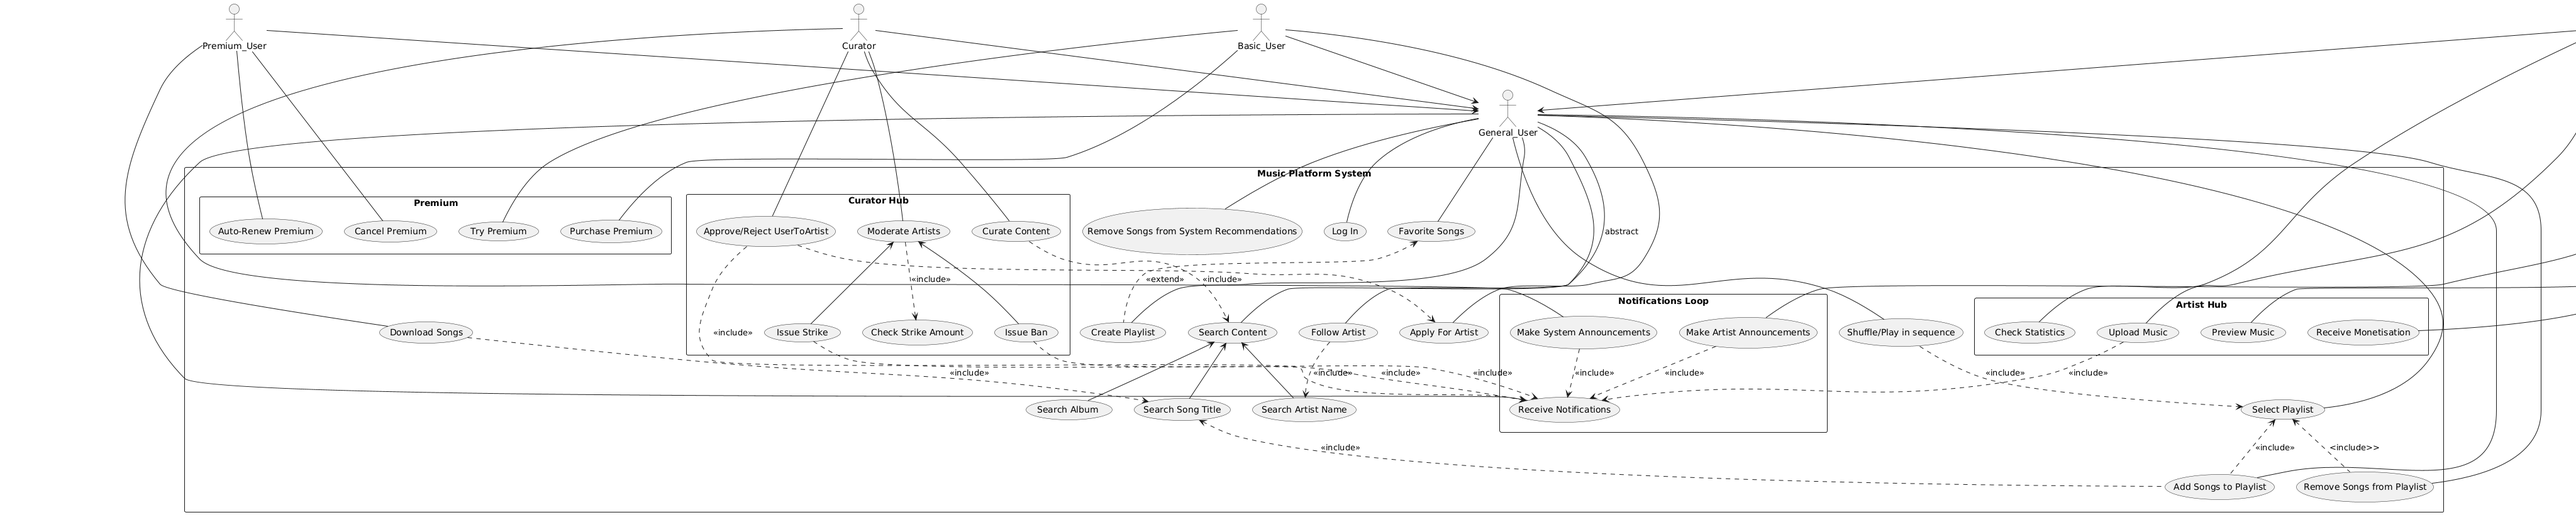
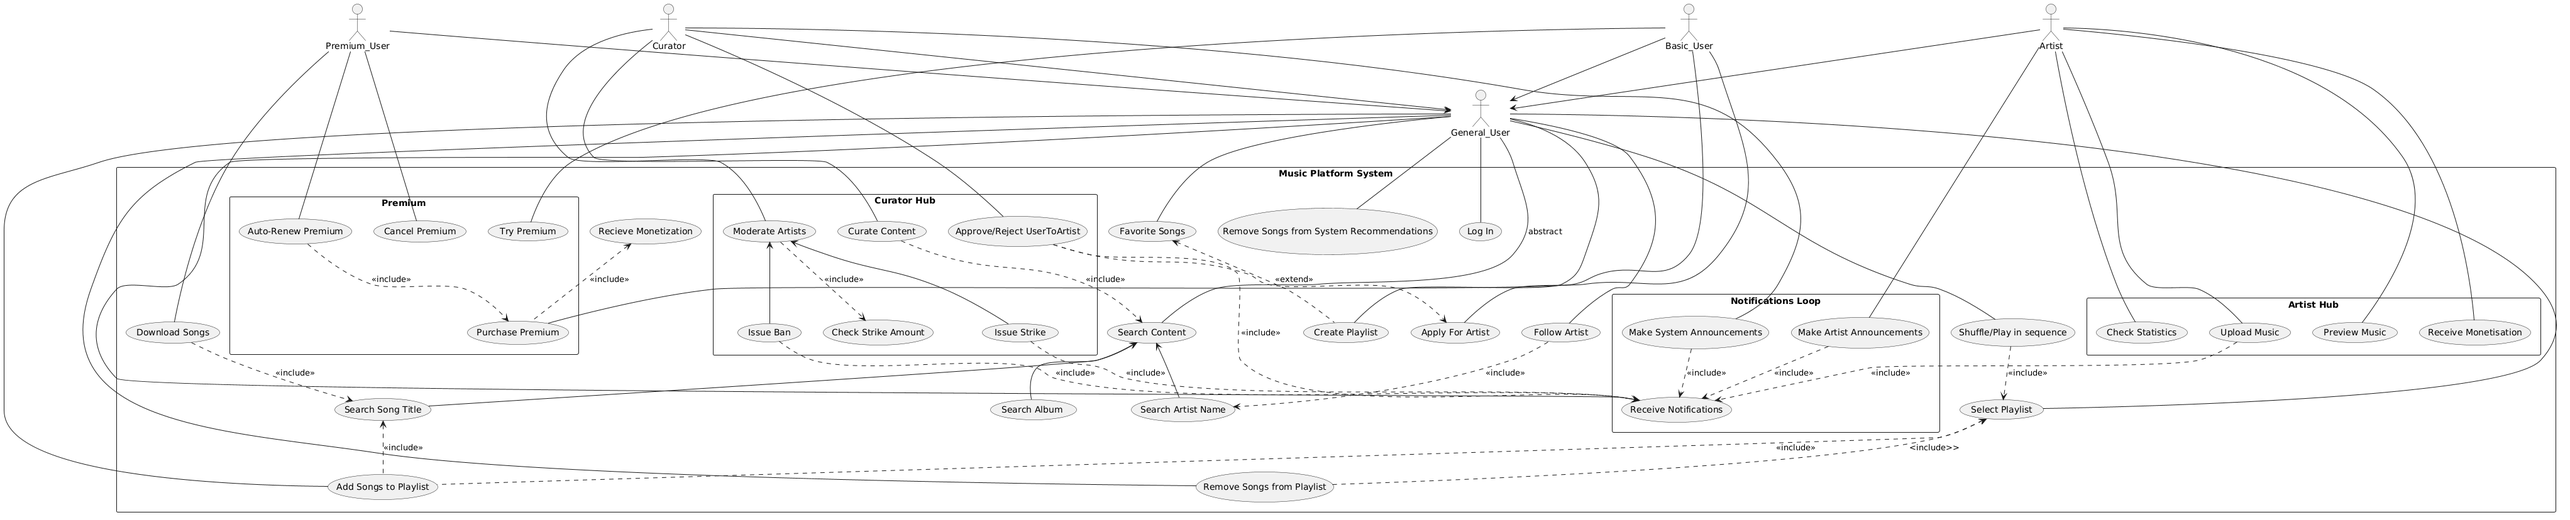
Added Monetization and Curator Preview, updated Diagram, Pending Notifications and Premium

diff --git a/Paradoteo_1/Use-case-v0.1.md b/Paradoteo_1/Use-case-v0.1.md
@@ -88,6 +88,9 @@ rectangle "Notifications Loop" {
   (Curator) --> (General_User)
   (Basic_User) --> (General_User)
   (Premium_User) --> (General_User)
+  
+  (Recieve Monetization) <.. (Purchase Premium) : <<include>>
+  (Auto-Renew Premium) ..> (Purchase Premium) : <<include>>
 
 }
 
@@ -201,32 +204,38 @@ rectangle "Notifications Loop" {
 1. Εκτελεση Βασικής Ροής "Search Song Title"
 2. Ο Χρήστης επιλεγει το τραγούδι που θελει να κατεβασει και πατάει τις τρεις τελειες διπλα στον τιτλο του
 3. Το σύστημα ελέγχει αν ο Χρήστης είναι στη κατηγορία Premium.
-
-## Εναλλακτική Ροή 1
-4.α Ο Χρήστης δεν είναι Premium, το σύστημα εμφανίζει ενα μενού επιλογών, συμπεριλαμβανομένης μιας "Download" επιλογής
-
-## Εναλλακτική Ροή 2
 4. Ο Χρήστης είναι "Premium", το σύστημα εμφανίζει ενα μενού επιλογών, συμπεριλαμβανομένης μιας "Download" επιλογής
 5. Ο Χρήστης επιλεγει "Download"
 6. Το σύστημα αντλεί απο το cloud/database το αρχείο του τραγούδιού, καθως και το path στο οποίο θα κατεβει το αρχείο
 7. Το σύστημα κατεβάζει το αρχείο στο δωσμένο path
 
+## Εναλλακτική Ροή 1
+4.α.1 Το σύστημα διαπιστώνει ότι ο Χρήστης δεν είναι Premium και τον ενημερώνει ότι πρέπει να αγοράσει Premium για να συνεχίσει
+4.α.2 Εκτέλεση Βασικής Ροής "Purchase Premium" ή "Try Premium"
+
 # Βασική Ροή "Check Statistics"
-1. Ο Καλλιτέχνης πατάει στην εικονα προφιλ του
-2. Το σύστημα εμφανιζει επιλογες ρυθμισεων για το προφιλ του artist
-3. Ο Καλλιτέχνης πατάει την επιλογη "Statistics"
-4. Το σύστημα αντλεί δεδομένα απο το cloud/database για τον καλλιτεχνη, κανει υπολογισμους και εμφανιζει γραφηματα στον artist
+1. Ο Καλλιτέχνης πατάει στην εικόνα προφίλ του
+2. Το σύστημα εμφανίζει επιλογές ρυθμίσεων για το προφίλ του artist
+3. Ο Καλλιτέχνης πατάει την επιλογή "Statistics"
+4. Το σύστημα αντλεί δεδομένα απο το cloud/database για τον καλλιτέχνη, κανει υπολογισμούς και εμφανίζει γραφήματα στον artist
 
 # Βασική Ροή "Upload Music"
-1. Ο Καλλιτέχνης πατάει το κουμπι upload στο navigation panel
-2. Το σύστημα ανοιγει το προγραμμα περιηγησης αρχειων του χρηστη
+1. Ο Καλλιτέχνης πατάει το κουμπί upload στο navigation panel
+2. Το σύστημα ανοίγει το πρόγραμμα περιήγησης αρχείων του χρήστη
 3. Ο Καλλιτέχνης βρισκει και επιλεγει το αρχείο μουσικης που θελει να ανεβασει
 4. Ο Καλλιτέχνης εισαγει το ονομα του τραγούδιού, το άλμπουμ στο οποίο ανηκει, καθως και τον αριθμο μεσα στο άλμπουμ, το ετος κυκλοφορησης του τραγούδιού και αλλες επιπροσθετες πληροφοριες
-5. Το σύστημα αποθηκευει το νεο τραγούδι στο cloud/database
-6. Εκτελεση Βασικής Ροής "Receive Notifications"
-**Πρόσθεσε εναλλακτική Ροή Upload Music for Preview**
+5. Το σύστημα στέλνει το τραγούδι στον Curator για επιβεβαίωση
+6. Ο Curator ακούει και εγκρίνει το τραγούδι
+7. Το σύστημα αποθηκευει το νεο τραγούδι στο cloud/database
+8. Εκτελεση Βασικής Ροής "Receive Notifications"
+
+## Εναλλακτική Ροή 1
+6.α.1 Ο Curator ακούει και απορρίπτει το τραγούδι
+6.α.2 Ο Καλλιτέχνης ενημερώνεται για την απόρριψη
 
 # Βασική Ροή "Receive Monetisation"
+1. Το σύστημα παίρνει τον τραπεζικό λογαριασμό του Χρήστη και επικοινωνεί με την τράπεζα
+2. Η τράπεζα μεταφέρει τα χρήματα από τον λογαριασμό του Χρήστη στον λογαριασμό της εταιρείας μας
 
 # Βασική Ροή "Notifications Loop"
 **Το notifications Loop αποτελείται από 3 sub-use cases. Για να θεωρείται αρκετά "βαθύ" use case, τα έχουμε μαζέψει σε ένα ενιαίο use case.**
